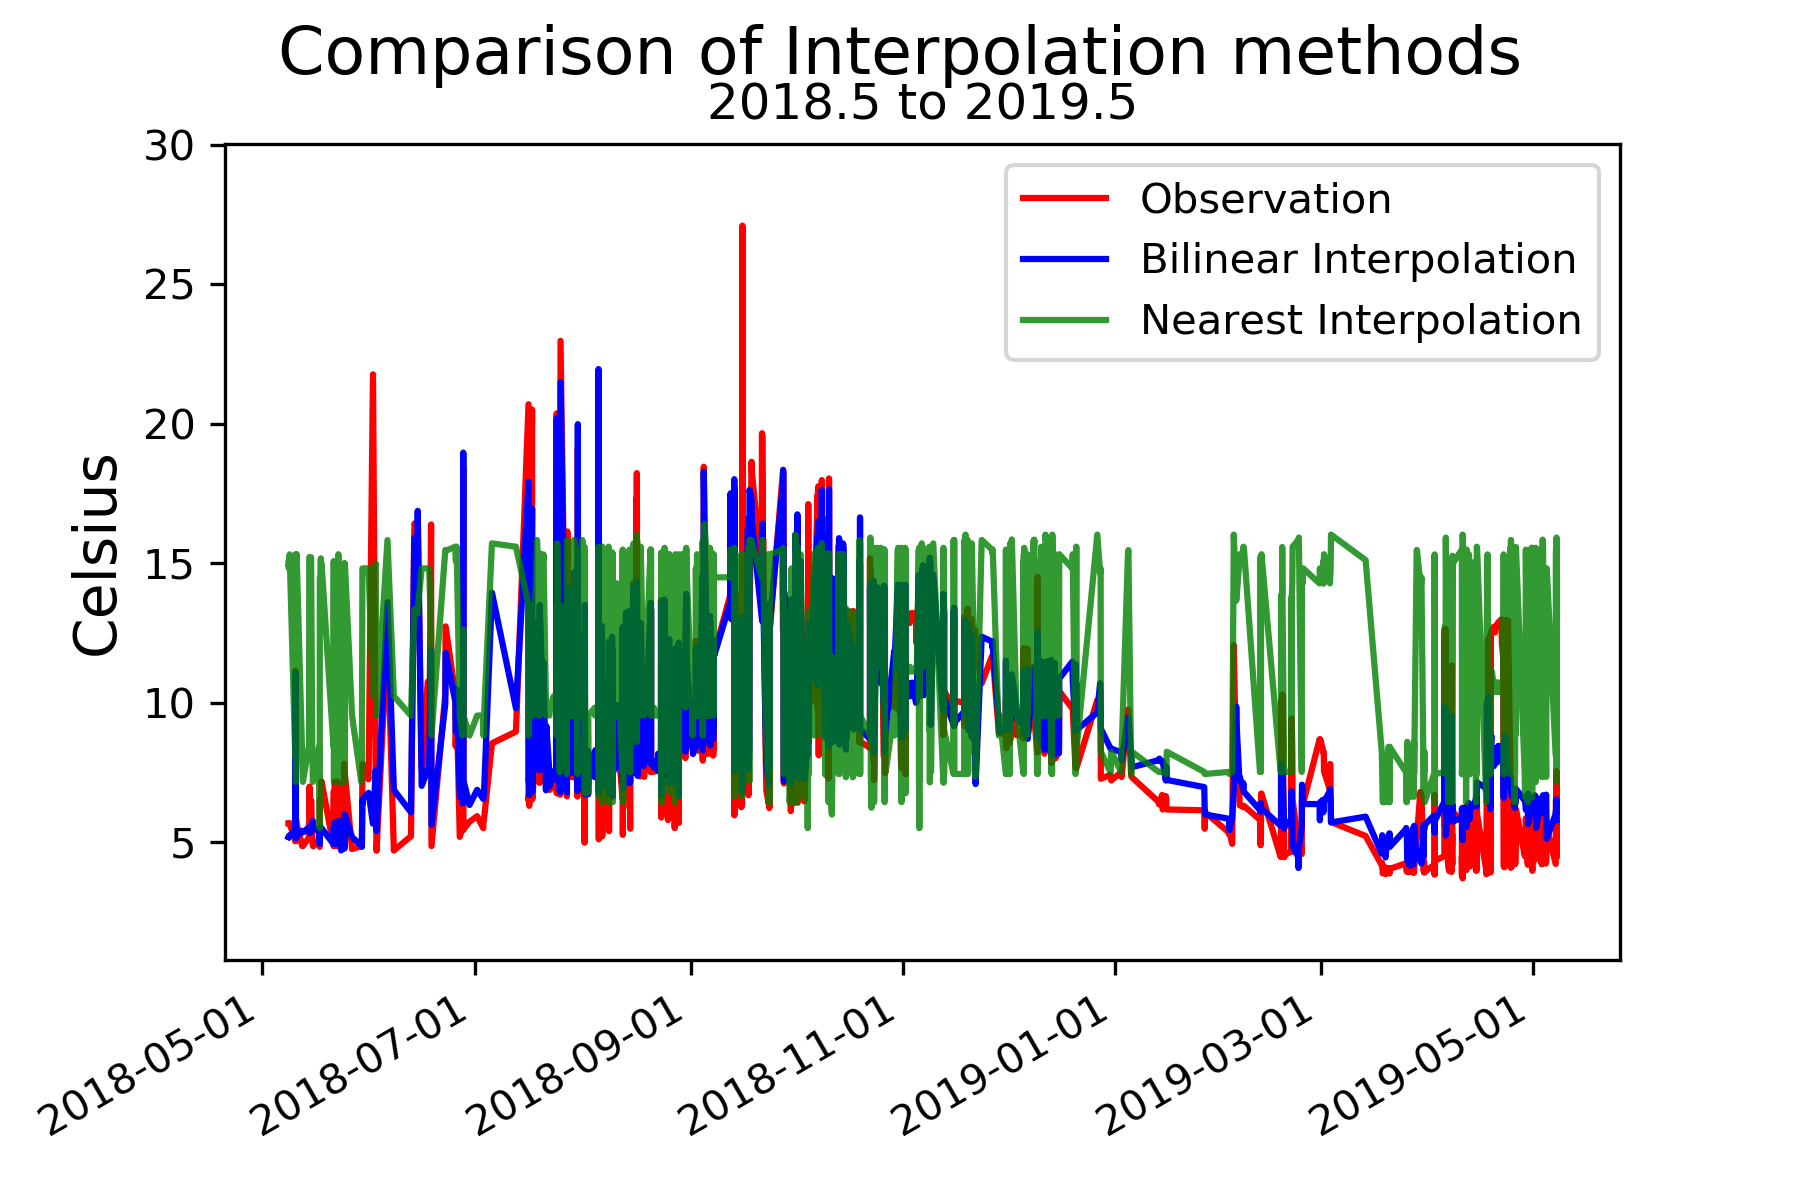
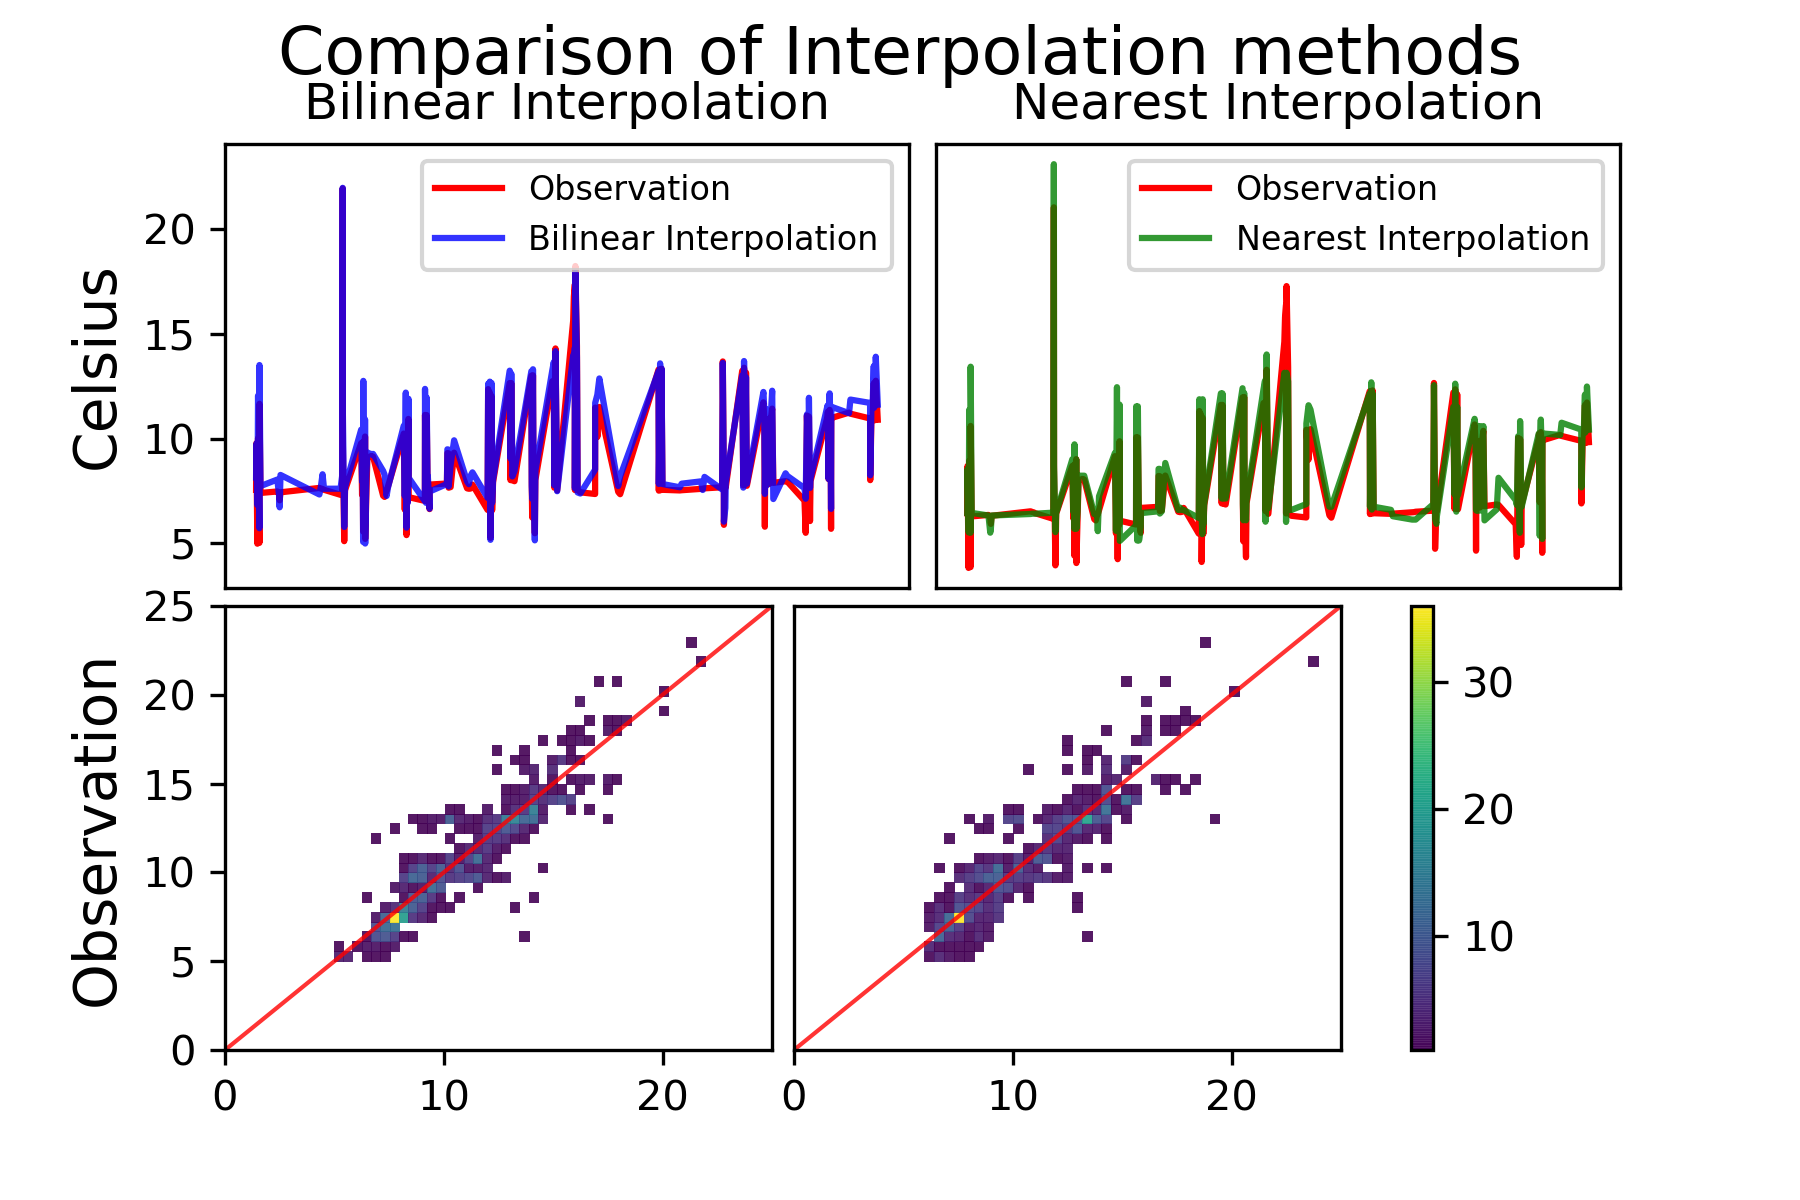
Add files via upload

diff --git a/Sensitivity to interplations method/interpolation_comparison_figure.py b/Sensitivity to interplations method/interpolation_comparison_figure.py
@@ -2,14 +2,17 @@
 """
 Created on Mon Jul 27 17:47:14 2020
 
+Plot time series and scatter of Interpolation methods
+
 @author: Mingchao
 """
 import pandas as pd
 import numpy as np
 import matplotlib.pyplot as plt
-import matplotlib.dates as dates
-import sklearn
+import os
+from sklearn.metrics import mean_squared_error
 import math
+import datetime
 from matplotlib import gridspec
 from scipy import stats
 
@@ -18,7 +21,7 @@ def rmse(actual, predicted):
     get Root Mean Square Error
     actual is observation data,predicted is model's data
     '''
-    mse = sklearn.metrics.mean_squared_error(actual, predicted)
+    mse = mean_squared_error(actual, predicted)
     rmse = math.sqrt(mse)
     return float(rmse)
 
@@ -52,18 +55,36 @@ def corrcoef(x,y):
     den = math.sqrt((sumofx2-float(sum1**2)/n)*(sumofy2-float(sum2**2)/n))
     return num/den
 ###################### Hardcodes #########################
-path = 'E:\\Mingchao\\paper\\interpo_comparison_data.csv'
+path = 'E:\\Mingchao\\paper\\interpo_comparison_data_final.csv'
 path_save = 'E:\\Mingchao\\paper'
 seasons = ['WINTER', 'SPRING', 'SUMMER', 'FALL']
+start_time = datetime.datetime(2018,8,1,00,00,00) # 8 9
+end_time = datetime.datetime(2018,9,1,00,00,00)
 ###################### Main ##############################
 comparison_df = pd.read_csv(path,index_col=0)
 comparison_df = comparison_df.dropna()
+comparison_df_scatter = comparison_df
 comparison_df.index = pd.to_datetime(comparison_df['time'])
+for i in comparison_df.index:
+    if not start_time<i<end_time:
+        comparison_df['time'][i]=np.nan
+comparison_df = comparison_df.dropna(subset=['time'])
 comparison_df['month'] = comparison_df.index.month
 season = ((comparison_df.month % 12 + 3) // 3).map({1:'WINTER', 2: 'SPRING', 3:'SUMMER', 4:'FALL'})
 comparison_df['season'] = season.values 
 fig = plt.figure()#figsize=(11.69,8.27)
-ax = fig.add_subplot()
+gsc = gridspec.GridSpec(2,2,wspace=0.04, hspace=0.04,width_ratios=[1, 1])
+ax1 = fig.add_subplot(gsc[0,0])
+ax2 = fig.add_subplot(gsc[0,1])
+ax3 = fig.add_subplot(gsc[1,0])
+ax4 = fig.add_subplot(gsc[1,1])
+ax1.axes.get_xaxis().set_visible(False)
+ax2.axes.get_xaxis().set_visible(False)
+ax2.axes.get_yaxis().set_visible(False)
+ax4.axes.get_yaxis().set_visible(False)
+observation_list = list(comparison_df_scatter['observation_T'])#.loc[comparison_df['season']==seasons[i]])
+fitting_list = list(comparison_df_scatter['fitting'])#.loc[comparison_df['season']==seasons[i]])
+nofitting_list = list(comparison_df_scatter['no_fitting'])#.loc[comparison_df['season']==seasons[i]])
 size = min(fig.get_size_inches())
 MAX_T=max(comparison_df['observation_T'].values)
 MIN_T=min(comparison_df['observation_T'].values)
@@ -72,42 +93,32 @@ if diff_temp==0:
     textend_lim=0.1
 else:
     textend_lim=diff_temp/8.0
-ax.plot(comparison_df.index,comparison_df['observation_T'].values,color='r',label='Observation')
-ax.plot(comparison_df.index,comparison_df['fitting'].values,color='blue',label='Bilinear Interpolation')
-ax.plot(comparison_df.index,comparison_df['no_fitting'].values,color='green',alpha=0.8,label='Nearest Interpolation')
-ax.set_ylabel('Celsius',fontsize=3.5*size)
-ax.set_ylim(MIN_T-textend_lim,MAX_T+textend_lim)
-ax.set_title('2018.5 to 2019.5')
-ax.legend(prop={'size':2* size})
-ax.tick_params(labelsize=2.5*size)
-plt.gca().xaxis.set_major_formatter(dates.DateFormatter('%Y-%m-%d'))
-plt.gcf().autofmt_xdate()
-ax.legend()
-#gsc = gridspec.GridSpec(2,2,wspace=0.02, hspace=0.09,width_ratios=[1, 1])
-#ax1 = fig.add_subplot(gsc[0,0])
-#ax1.axes.get_xaxis().set_visible(False)
-#ax2 = fig.add_subplot(gsc[0,1])
-#ax2.axes.get_xaxis().set_visible(False)
-#ax2.axes.get_yaxis().set_visible(False)
-#ax3 = fig.add_subplot(gsc[1,0])
-#ax3.axes.get_xaxis().set_visible(False)
-#ax4 = fig.add_subplot(gsc[1,1])
-#ax4.axes.get_yaxis().set_visible(False)
-#ax4.axes.get_xaxis().set_visible(False)
-#ax_list = [ax1,ax2,ax3,ax4]
-#for i in range(4):
-#    time_list = list(comparison_df.index[comparison_df['season']==seasons[i]])
-observation_list = list(comparison_df['observation_T'])#.loc[comparison_df['season']==seasons[i]])
-fitting_list = list(comparison_df['fitting'])#.loc[comparison_df['season']==seasons[i]])
-nofitting_list = list(comparison_df['no_fitting'])#.loc[comparison_df['season']==seasons[i]])
-#    ax_list[i].plot(time_list,observation_list,color='r',label='Observation')
-#    ax_list[i].plot(time_list,fitting_list,linewidth=2,color='blue',label='Bilinear Interpolation')
-#    ax_list[i].plot(time_list,nofitting_list,linewidth=2,color='green',label='Nearest Interpolation')
-#    ax_list[i].set_ylabel('Celsius',fontsize=2*size)
-#    ax_list[i].set_ylim(MIN_T-textend_lim,MAX_T+textend_lim)
-#    ax_list[i].set_title(seasons[i])
-#    ax_list[i].legend()
-#    print(seasons[i]+':')
+ax1.plot(comparison_df.index,comparison_df['observation_T'].values,color='r',label='Observation')
+ax1.plot(comparison_df.index,comparison_df['fitting'].values,color='blue',alpha=0.8,label='Bilinear Interpolation')
+ax1.set_ylabel('Celsius',fontsize=3.5*size)
+ax1.set_ylim(MIN_T-textend_lim,MAX_T+textend_lim)
+ax1.set_title('Bilinear Interpolation')
+ax1.legend(prop={'size':2* size})
+ax1.tick_params(labelsize=2.5*size)
+#plt.gca().xaxis.set_major_formatter(dates.DateFormatter('%Y-%m-%d'))
+#plt.gcf().autofmt_xdate()
+ax2.plot(comparison_df.index,comparison_df['observation_T'].values,color='r',label='Observation')
+ax2.plot(comparison_df.index,comparison_df['no_fitting'].values,color='green',alpha=0.8,label='Nearest Interpolation')
+ax2.set_title('Nearest Interpolation')
+ax2.legend(prop={'size':2* size})
+ax2.tick_params(labelsize=2.5*size)
+
+############# scatter #################
+a = ax3.hist2d(x=comparison_df_scatter['fitting'].values, y=comparison_df_scatter['observation_T'].values, bins=40, alpha=0.9, cmin=1)
+ax3.set_xlim(0,25)
+ax3.set_ylim(0,25)
+ax3.plot([0,25],[0,25],color='red',linewidth=1,alpha=0.8)
+ax3.set_ylabel('Observation',fontsize=3.5*size)
+b = ax4.hist2d(x=comparison_df_scatter['no_fitting'].values, y=comparison_df_scatter['observation_T'].values, bins=40, alpha=0.9, cmin=1)
+ax4.set_xlim(0,25)
+ax4.set_ylim(0,25)
+ax4.plot([0,25],[0,25],color='red',linewidth=1,alpha=0.8)
+plt.colorbar(a[3], ax=[ax3, ax4])
 print('observation mean:%.2f'%np.mean(observation_list),'fitting mean:%.2f'%np.mean(fitting_list),'no_fitting mean:%.2f'%np.mean(nofitting_list))
 print('observation std:%.2f'%np.std(observation_list),'fitting std:%.2f'%np.std(fitting_list),'no_fitting std:%.2f'%np.std(nofitting_list))
 print('observation var:%.2f'%np.var(observation_list),'fitting var:%.2f'%np.var(fitting_list),'no_fitting var:%.2f'%np.var(nofitting_list))
@@ -115,4 +126,4 @@ print('fitting bias:%.2f'%(np.mean(observation_list)-np.mean(fitting_list)),'no_
 print('fitting Correlation coefficient:%.2f'%corrcoef(fitting_list,observation_list),'no_fitting Correlation coefficient:%.2f'%corrcoef(nofitting_list,observation_list))
 print('fitting RMSE:%.2f'%rmse(observation_list,fitting_list),'no_fitting RMSE:%.2f'%rmse(observation_list,nofitting_list))
 fig.suptitle('Comparison of Interpolation methods',fontsize=16)
-#plt.savefig(os.path.join(path_save,'interpolation_comparison_figure.png'),dpi=300)
+plt.savefig(os.path.join(path_save,'interpolation_comparison_figure.png'),dpi=300)
